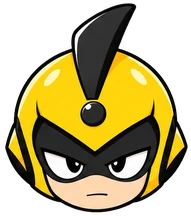
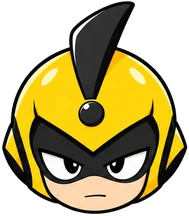
表情7種の元画像を差しかえ、顔画像を作り直す
Claude-Session: https://claude.ai/code/session_01UQWMRoXjScHpVRNdxcqKXF

diff --git a/apps/japan-map-quiz/index.html b/apps/japan-map-quiz/index.html
@@ -72,7 +72,7 @@ body{background:var(--bg);color:var(--ink);font-family:var(--body);font-weight:4
 /* ふりがなは漢字の上（ruby） */
 .ask .q rt{font-size:min(.42em, calc(var(--fit, 1) * 1em));font-weight:700;color:var(--muted);letter-spacing:0}
 /* 正解のときの顔：問題文の「？」のすぐ右に、文字より少し大きく。ぽんと出る */
-.ask .q .qface{display:inline-block;position:relative;width:calc(2.7em * 127 / 144);height:1em;margin-left:.12em;vertical-align:var(--face-base,-.1em)}
+.ask .q .qface{display:inline-block;position:relative;width:calc(2.7em * 126 / 144);height:1em;margin-left:.12em;vertical-align:var(--face-base,-.1em)}
 /* 顔は前の1.8倍（高さ2.7em）。下は文字の底にそろえ、頭は行や問題のウインドウの上へあえて飛び出させる（行の高さは変えない） */
 .ask .q .qface img{position:absolute;left:0;bottom:0;height:2.7em;width:auto;transform-origin:50% 100%;animation:faceIn .35s cubic-bezier(.2,1.6,.4,1) 1}
 @keyframes faceIn{0%{transform:scale(.3);opacity:0}100%{transform:scale(1);opacity:1}}
@@ -120,7 +120,7 @@ body{background:var(--bg);color:var(--ink);font-family:var(--body);font-weight:4
 /* DBG：地図の上のまん中にうすく（押すとき・ON のときは少し濃く） */
 /* 地図の左上（海の上）：サッ記マンの7つの表情を1秒ごとにランダムに切りかえる（フェードなし）。問題を解いている間は出さない。
    7枚はヘルメットの形で位置と大きさをそろえて書き出してあるので、切りかえても顔が動かない */
-.rotface{position:absolute;left:calc(var(--s16) + env(safe-area-inset-left,0px));top:44px;width:calc(84px * 191 / 216);height:84px;z-index:1;pointer-events:none}
+.rotface{position:absolute;left:calc(var(--s16) + env(safe-area-inset-left,0px));top:44px;width:calc(84px * 189 / 216);height:84px;z-index:1;pointer-events:none}
 .rotface[hidden]{display:none}
 .rotface img{display:block;width:100%;height:100%}
 .dbgdock{position:absolute;left:50%;top:var(--s8);transform:translateX(-50%);z-index:2;display:flex;gap:4px;opacity:.38}
@@ -1457,7 +1457,7 @@ const clearTag = () => gTag.innerHTML = "";
 
 /* ---------- 画面 ---------- */
 // 地図の左上で表情を1秒ごとに切りかえる（同じ顔が続かないように、いまの顔以外から選ぶ）
-const ROT_FACES = ["majime","egao","super","niyari","odoroki","gakkari","ikari"].map(n => `img/fx-${n}.webp?v=1`);
+const ROT_FACES = ["majime","egao","super","niyari","odoroki","gakkari","ikari"].map(n => `img/fx-${n}.webp?v=2`);
 ROT_FACES.forEach(u => { const i = new Image(); i.src = u; });
 const rotEl = document.getElementById("rotface"), rotImg = rotEl.querySelector("img");
 let rotNow = -1, rotTimer = 0;
@@ -1681,12 +1681,12 @@ function home() {
     <h2>${TRACKS[0].name}</h2>
     <div class="courses">${COURSES.filter(c => c.track !== "history").map((c, i) => {
       const s = courseStatus(c);
-      return `<button class="course${s.done ? " done" : ""}" type="button" data-course="${c.id}"${s.off ? " disabled" : ""}><b class="no">${i+1}</b><span>${s.done ? CROWN_SVG : ""}${c.name}${s.done ? `<em class="mastered">マスター！</em>` : `<small>${s.text}</small>`}</span>${s.done ? `<img class="mface" src="img/fx-super.webp?v=1" alt="">` : ""}</button>`;
+      return `<button class="course${s.done ? " done" : ""}" type="button" data-course="${c.id}"${s.off ? " disabled" : ""}><b class="no">${i+1}</b><span>${s.done ? CROWN_SVG : ""}${c.name}${s.done ? `<em class="mastered">マスター！</em>` : `<small>${s.text}</small>`}</span>${s.done ? `<img class="mface" src="img/fx-super.webp?v=2" alt="">` : ""}</button>`;
     }).join("")}</div>
     <h2>${TRACKS[1].name}</h2>
     <div class="courses">${COURSES.filter(c => c.track === "history").map((c, i) => {
       const s = courseStatus(c);
-      return `<button class="course${s.done ? " done" : ""}" type="button" data-course="${c.id}"${s.off ? " disabled" : ""}><b class="no">${i+1}</b><span>${s.done ? CROWN_SVG : ""}${c.name}${s.done ? `<em class="mastered">マスター！</em>` : `<small>${s.text}</small>`}</span>${s.done ? `<img class="mface" src="img/fx-super.webp?v=1" alt="">` : ""}</button>`;
+      return `<button class="course${s.done ? " done" : ""}" type="button" data-course="${c.id}"${s.off ? " disabled" : ""}><b class="no">${i+1}</b><span>${s.done ? CROWN_SVG : ""}${c.name}${s.done ? `<em class="mastered">マスター！</em>` : `<small>${s.text}</small>`}</span>${s.done ? `<img class="mface" src="img/fx-super.webp?v=2" alt="">` : ""}</button>`;
     }).join("")}</div>
     <button class="btn resetbtn" id="reset" type="button">${ic("refresh")}リセット</button>`;
   byId("reset").onclick = openReset;
@@ -1900,7 +1900,7 @@ function afterAnswer(ok, html, opt = {}) {
     sndOk();
     // 正解のときは、問題文の最後（？のすぐ右）にサッ記マンの超笑顔を小さく出す
     const qEl = sheet.querySelector(".ask .q");
-    if (qEl && !qEl.querySelector(".qface")) qEl.insertAdjacentHTML("beforeend", `\u2060<span class="qface" aria-hidden="true"><img src="img/face-super.webp?v=2" alt=""></span>`);
+    if (qEl && !qEl.querySelector(".qface")) qEl.insertAdjacentHTML("beforeend", `\u2060<span class="qface" aria-hidden="true"><img src="img/face-super.webp?v=3" alt=""></span>`);
     if (q.hint) quiz.combo = 0; else { quiz.combo++; quiz.maxCombo = Math.max(quiz.maxCombo, quiz.combo); }
     if (quiz.combo >= 2) { combo.textContent = `${quiz.combo}れんぞく！`; combo.hidden = false; combo.classList.remove("pop"); void combo.offsetWidth; combo.classList.add("pop"); }
     else combo.hidden = true;

diff --git a/apps/japan-map-quiz/src/template.html b/apps/japan-map-quiz/src/template.html
@@ -72,7 +72,7 @@ body{background:var(--bg);color:var(--ink);font-family:var(--body);font-weight:4
 /* ふりがなは漢字の上（ruby） */
 .ask .q rt{font-size:min(.42em, calc(var(--fit, 1) * 1em));font-weight:700;color:var(--muted);letter-spacing:0}
 /* 正解のときの顔：問題文の「？」のすぐ右に、文字より少し大きく。ぽんと出る */
-.ask .q .qface{display:inline-block;position:relative;width:calc(2.7em * 127 / 144);height:1em;margin-left:.12em;vertical-align:var(--face-base,-.1em)}
+.ask .q .qface{display:inline-block;position:relative;width:calc(2.7em * 126 / 144);height:1em;margin-left:.12em;vertical-align:var(--face-base,-.1em)}
 /* 顔は前の1.8倍（高さ2.7em）。下は文字の底にそろえ、頭は行や問題のウインドウの上へあえて飛び出させる（行の高さは変えない） */
 .ask .q .qface img{position:absolute;left:0;bottom:0;height:2.7em;width:auto;transform-origin:50% 100%;animation:faceIn .35s cubic-bezier(.2,1.6,.4,1) 1}
 @keyframes faceIn{0%{transform:scale(.3);opacity:0}100%{transform:scale(1);opacity:1}}
@@ -120,7 +120,7 @@ body{background:var(--bg);color:var(--ink);font-family:var(--body);font-weight:4
 /* DBG：地図の上のまん中にうすく（押すとき・ON のときは少し濃く） */
 /* 地図の左上（海の上）：サッ記マンの7つの表情を1秒ごとにランダムに切りかえる（フェードなし）。問題を解いている間は出さない。
    7枚はヘルメットの形で位置と大きさをそろえて書き出してあるので、切りかえても顔が動かない */
-.rotface{position:absolute;left:calc(var(--s16) + env(safe-area-inset-left,0px));top:44px;width:calc(84px * 191 / 216);height:84px;z-index:1;pointer-events:none}
+.rotface{position:absolute;left:calc(var(--s16) + env(safe-area-inset-left,0px));top:44px;width:calc(84px * 189 / 216);height:84px;z-index:1;pointer-events:none}
 .rotface[hidden]{display:none}
 .rotface img{display:block;width:100%;height:100%}
 .dbgdock{position:absolute;left:50%;top:var(--s8);transform:translateX(-50%);z-index:2;display:flex;gap:4px;opacity:.38}
@@ -1457,7 +1457,7 @@ const clearTag = () => gTag.innerHTML = "";
 
 /* ---------- 画面 ---------- */
 // 地図の左上で表情を1秒ごとに切りかえる（同じ顔が続かないように、いまの顔以外から選ぶ）
-const ROT_FACES = ["majime","egao","super","niyari","odoroki","gakkari","ikari"].map(n => `img/fx-${n}.webp?v=1`);
+const ROT_FACES = ["majime","egao","super","niyari","odoroki","gakkari","ikari"].map(n => `img/fx-${n}.webp?v=2`);
 ROT_FACES.forEach(u => { const i = new Image(); i.src = u; });
 const rotEl = document.getElementById("rotface"), rotImg = rotEl.querySelector("img");
 let rotNow = -1, rotTimer = 0;
@@ -1681,12 +1681,12 @@ function home() {
     <h2>${TRACKS[0].name}</h2>
     <div class="courses">${COURSES.filter(c => c.track !== "history").map((c, i) => {
       const s = courseStatus(c);
-      return `<button class="course${s.done ? " done" : ""}" type="button" data-course="${c.id}"${s.off ? " disabled" : ""}><b class="no">${i+1}</b><span>${s.done ? CROWN_SVG : ""}${c.name}${s.done ? `<em class="mastered">マスター！</em>` : `<small>${s.text}</small>`}</span>${s.done ? `<img class="mface" src="img/fx-super.webp?v=1" alt="">` : ""}</button>`;
+      return `<button class="course${s.done ? " done" : ""}" type="button" data-course="${c.id}"${s.off ? " disabled" : ""}><b class="no">${i+1}</b><span>${s.done ? CROWN_SVG : ""}${c.name}${s.done ? `<em class="mastered">マスター！</em>` : `<small>${s.text}</small>`}</span>${s.done ? `<img class="mface" src="img/fx-super.webp?v=2" alt="">` : ""}</button>`;
     }).join("")}</div>
     <h2>${TRACKS[1].name}</h2>
     <div class="courses">${COURSES.filter(c => c.track === "history").map((c, i) => {
       const s = courseStatus(c);
-      return `<button class="course${s.done ? " done" : ""}" type="button" data-course="${c.id}"${s.off ? " disabled" : ""}><b class="no">${i+1}</b><span>${s.done ? CROWN_SVG : ""}${c.name}${s.done ? `<em class="mastered">マスター！</em>` : `<small>${s.text}</small>`}</span>${s.done ? `<img class="mface" src="img/fx-super.webp?v=1" alt="">` : ""}</button>`;
+      return `<button class="course${s.done ? " done" : ""}" type="button" data-course="${c.id}"${s.off ? " disabled" : ""}><b class="no">${i+1}</b><span>${s.done ? CROWN_SVG : ""}${c.name}${s.done ? `<em class="mastered">マスター！</em>` : `<small>${s.text}</small>`}</span>${s.done ? `<img class="mface" src="img/fx-super.webp?v=2" alt="">` : ""}</button>`;
     }).join("")}</div>
     <button class="btn resetbtn" id="reset" type="button">${ic("refresh")}リセット</button>`;
   byId("reset").onclick = openReset;
@@ -1900,7 +1900,7 @@ function afterAnswer(ok, html, opt = {}) {
     sndOk();
     // 正解のときは、問題文の最後（？のすぐ右）にサッ記マンの超笑顔を小さく出す
     const qEl = sheet.querySelector(".ask .q");
-    if (qEl && !qEl.querySelector(".qface")) qEl.insertAdjacentHTML("beforeend", `\u2060<span class="qface" aria-hidden="true"><img src="img/face-super.webp?v=2" alt=""></span>`);
+    if (qEl && !qEl.querySelector(".qface")) qEl.insertAdjacentHTML("beforeend", `\u2060<span class="qface" aria-hidden="true"><img src="img/face-super.webp?v=3" alt=""></span>`);
     if (q.hint) quiz.combo = 0; else { quiz.combo++; quiz.maxCombo = Math.max(quiz.maxCombo, quiz.combo); }
     if (quiz.combo >= 2) { combo.textContent = `${quiz.combo}れんぞく！`; combo.hidden = false; combo.classList.remove("pop"); void combo.offsetWidth; combo.classList.add("pop"); }
     else combo.hidden = true;

diff --git a/README.md b/README.md
@@ -23,6 +23,7 @@
 
 ## 設計思想とデザインの趣向（日本地図タップドリル）
 
+- 2026-11-20 Claude：表情7種の元画像を新しい版に差しかえ、アプリの顔画像も作り直した
 - 2026-11-20 Claude：地図の左上でサッ記マンの7表情を1秒ごとに切りかえ（問題中は出さない）。マスター！のコースの右はしに超笑顔
 - 2026-11-20 Claude：正解の顔を1.8倍に。下は文字の底にそろえ、頭はウインドウの上へ飛び出させる
 - 2026-11-20 Claude：正解時のサッ記マンの顔を、持ち主が背景を透明にした画像に差しかえ（表情3枚の元画像も docs/images/ を透明版に更新）
